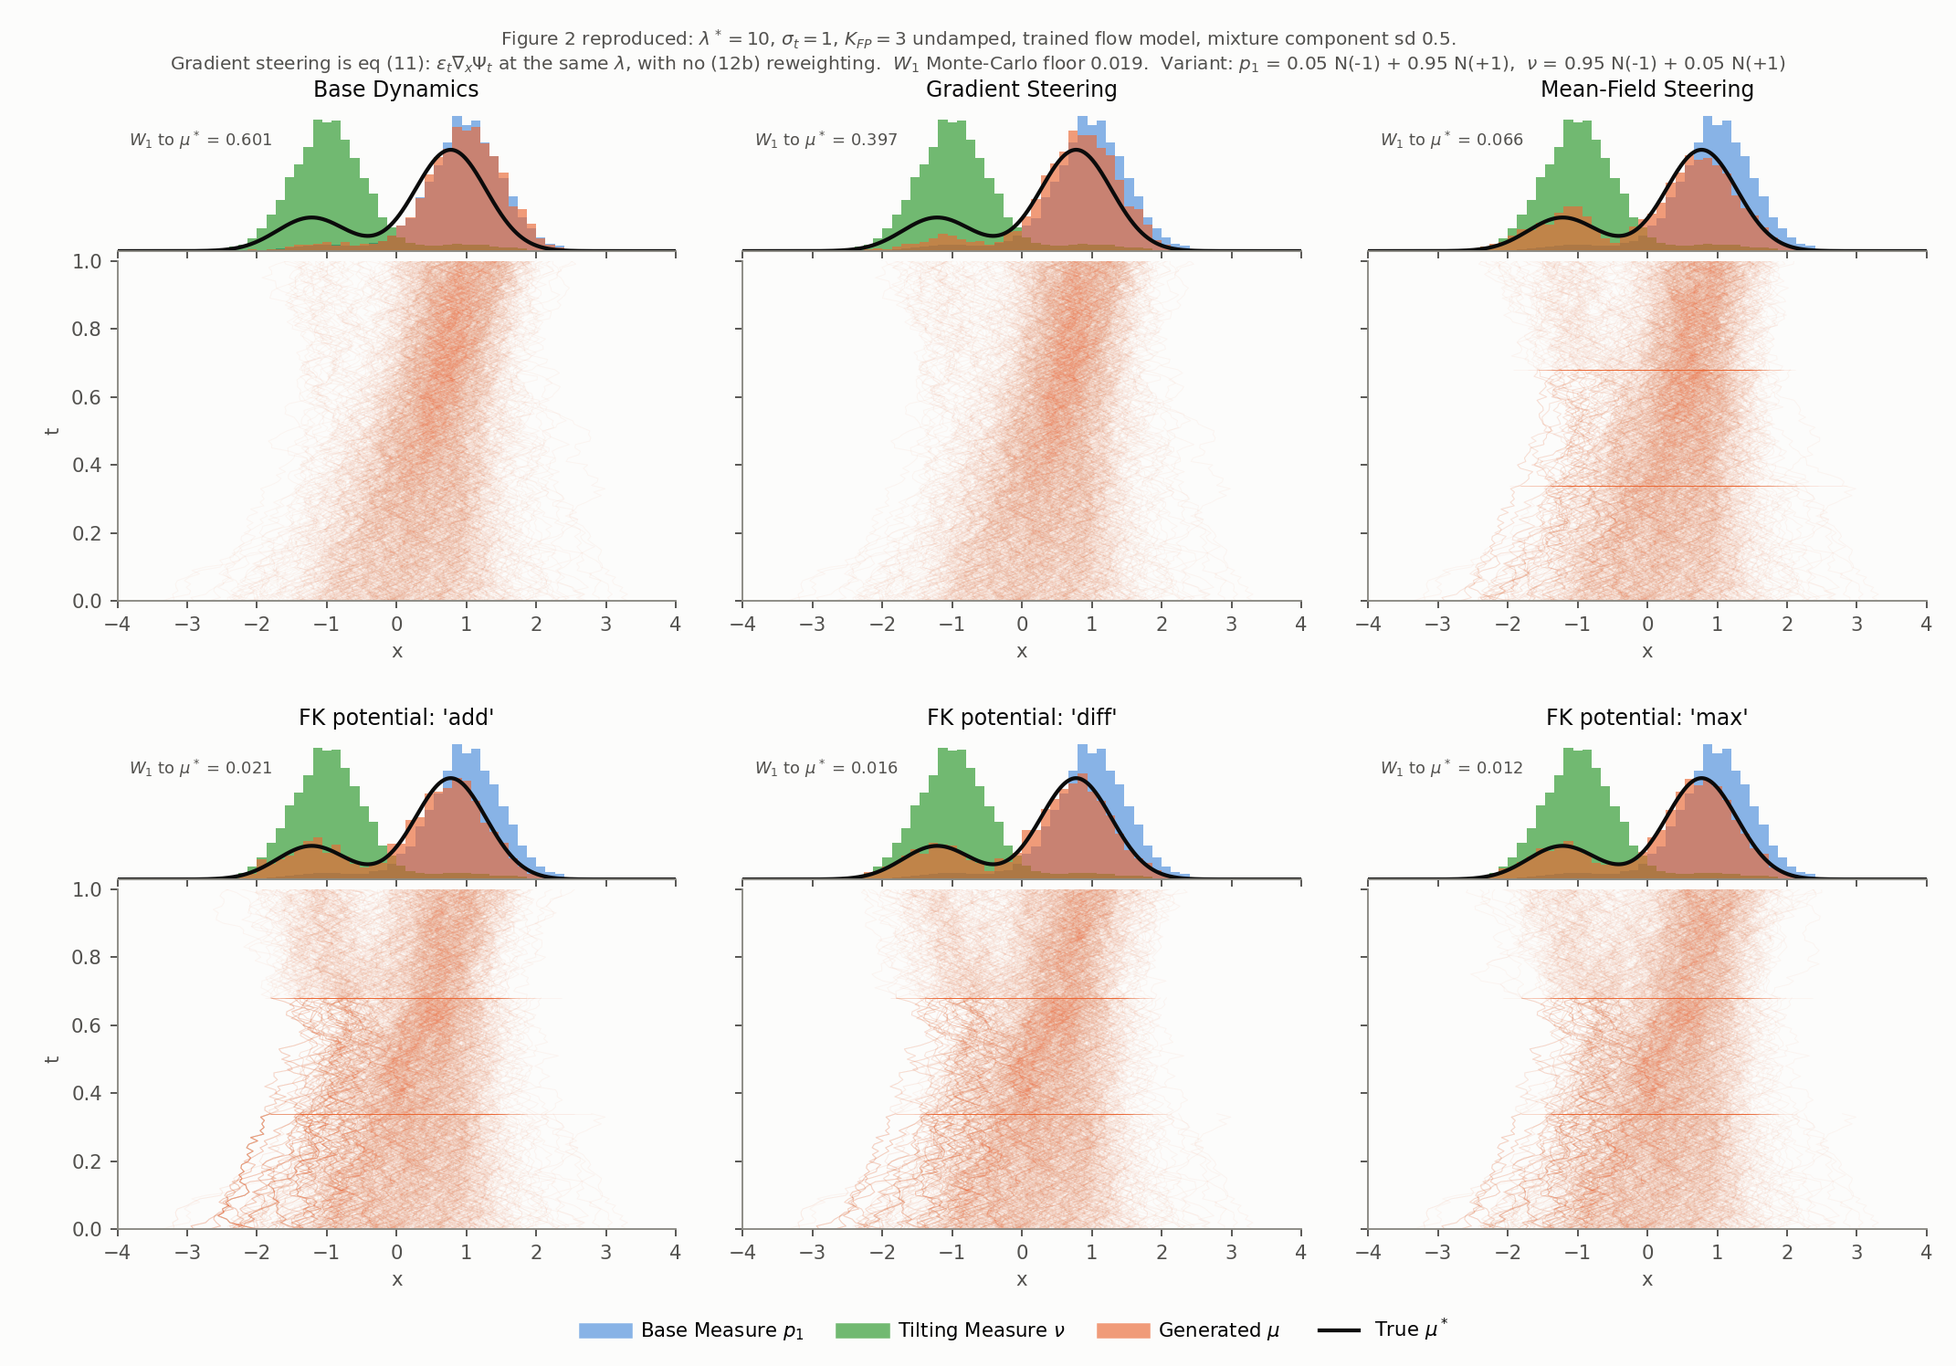
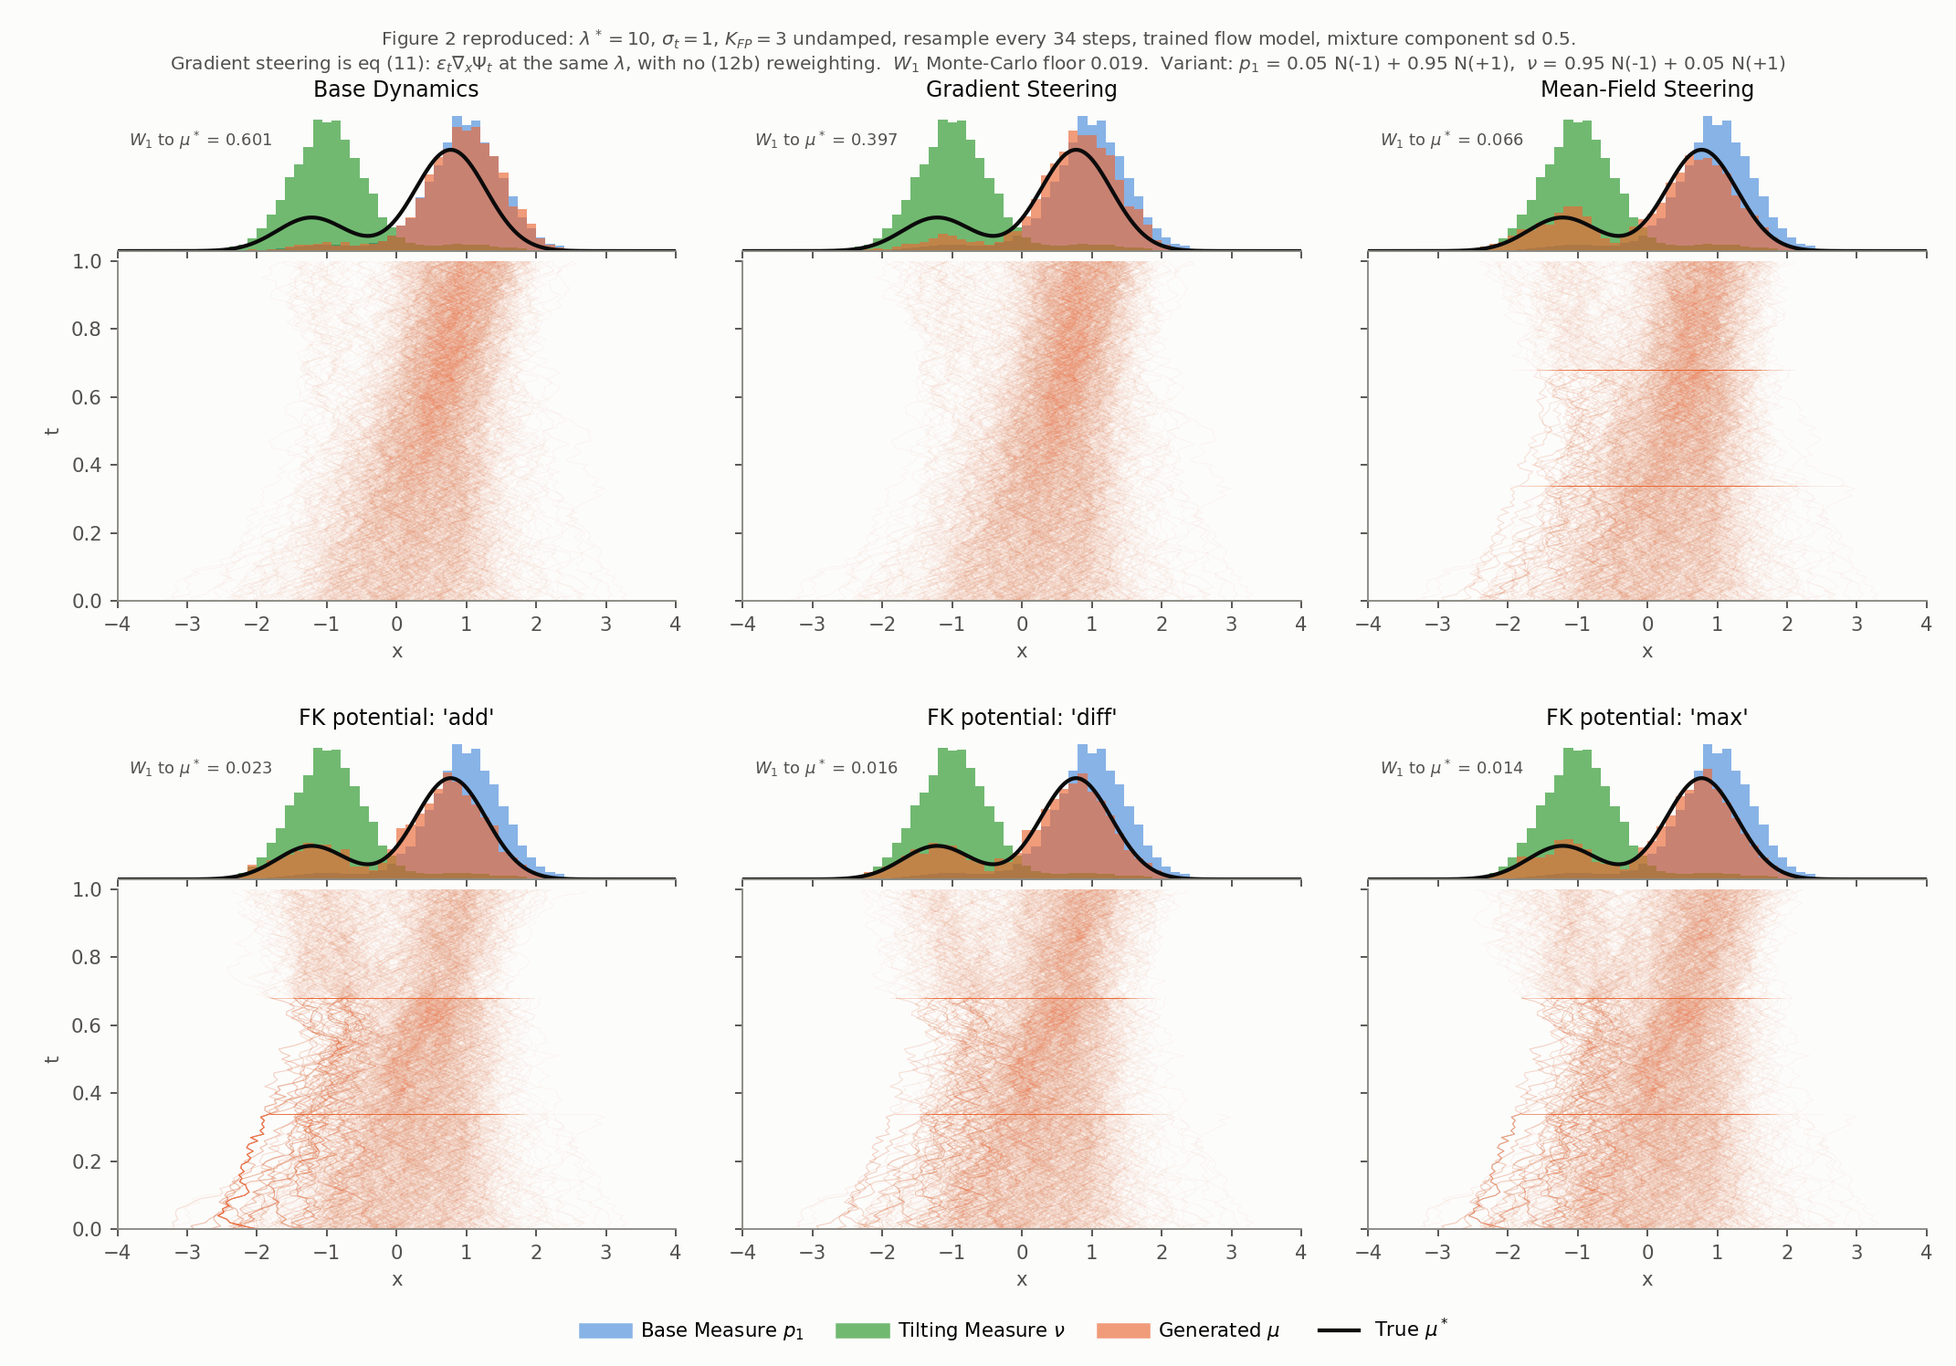
FK debug

diff --git a/src/steering/steerer.py b/src/steering/steerer.py
@@ -50,6 +50,8 @@ class Config:
     k_fp: int = 50
     damp: float = 0.5                 # k_fp=1 needs damp=1.0
     resample_every: int = 10          # 0 disables
+    resample_start: int = 0           # fkd_class.py's resampling_t_start/t_end: the window the
+    resample_end: int | None = None   # stride runs over. None = to the last step.
     increment_clip: float | None = None
     reweight: bool = True             # False -> gradient-only steering (the paper's baseline)
     steer_coeff: float | None = None  # replaces eps_t on grad_x Psi. None = eq (11)/(12a).
@@ -114,7 +116,9 @@ class Steerer:
     def checkpoint(self, k, diffusing):
         """Steps where _resample fires. FK reads the reward on exactly these."""
         cfg = self.cfg
-        return bool(cfg.resample_every and diffusing and (k + 1) % cfg.resample_every == 0)
+        end = cfg.nsteps if cfg.resample_end is None else cfg.resample_end
+        return bool(cfg.resample_every and diffusing and (k + 1) % cfg.resample_every == 0
+                    and cfg.resample_start <= k + 1 <= end)
 
     def noise_std(self, t_val, dt_t):
         g, _ = self.coeffs(t_val)
@@ -346,10 +350,11 @@ def multibatch(model, potential, cfg, n_particles, n_batches, device="cpu"):
 POTENTIALS = ("diff", "max", "add", "rt", "is")
 
 
-def log_potential(kind, lam, r, a, r_prev, logP):
-    """One FK step. Returns (a, r_prev).
+def log_potential(kind, lam, r, a, r_prev):
+    """One FK checkpoint. Returns (a, r_prev): a gains this checkpoint's log G_t in full.
 
-    `diff` is an increment; the others are cumulative and subtract `logP`, what resampling paid.
+    As Algorithm 1 and fkd_class.py:111-121: max/add resample on the running max/sum itself,
+    not its increment. `finalise` then sets lam*r(x1) - logP, which is G_0 = exp(lam r)/prod G_t.
     """
     if kind == "diff":
         return a + lam * (r - r_prev), r
@@ -363,13 +368,13 @@ def log_potential(kind, lam, r, a, r_prev, logP):
         r_prev = r
     else:
         raise ValueError(f"potential_type={kind!r}; use one of {POTENTIALS}")
-    return lam * r_prev - logP, r_prev
+    return a + lam * r_prev, r_prev
 
 
 @dataclass
 class FKConfig(Config):
     potential_type: str = "diff"      # one of POTENTIALS
-    reward_min_value: float = 0.0     # r_prev seed; only "max" is sensitive to it
+    reward_min_value: float | None = None   # r_prev seed; None = -inf for max, else 0
 
 
 class FKSteerer(Steerer):
@@ -379,14 +384,12 @@ class FKSteerer(Steerer):
     a = lam*r(x1) - logP, so at resample_every=0 they all collapse to SNIS.
     """
 
-    def check(self):
-        super().check()
-        if self.cfg.potential_type not in POTENTIALS:
-            raise ValueError(f"potential_type={self.cfg.potential_type!r}; use one of {POTENTIALS}")
-
     def begin(self, x, a):
         self._logP = torch.zeros_like(a)
-        self._r_prev = torch.full_like(a, self.cfg.reward_min_value)
+        seed = self.cfg.reward_min_value
+        if seed is None:                # the paper's Max has no floor; a 0 floor is inert on r <= 0
+            seed = float("-inf") if self.cfg.potential_type == "max" else 0.0
+        self._r_prev = torch.full_like(a, seed)
         # private stream, so turning FK on does not shift the Brownian sequence
         self._gen = torch.Generator(device=x.device).manual_seed(self.cfg.seed + 20_000_003)
 
@@ -394,11 +397,11 @@ class FKSteerer(Steerer):
         return self._gen
 
     def reindex(self, idx, a, x):
-        self._logP = (self._logP + a)[idx]      # ancestral, never reset
+        self._logP = (self._logP + a)[idx]     
         self._r_prev = self._r_prev[idx]
 
     def _cal_sample_gradient(self, x, t_val, sup, w_comb):
-        """FK weights the reward VALUE and never differentiates it."""
+        """Not used in FK: the potential is a function of the reward VALUE, not the measure's gradient."""
         return torch.zeros_like(x), torch.zeros(self.n, dtype=x.dtype, device=x.device)
 
     def _reward(self, x, t_val, w_comb):
@@ -411,16 +414,11 @@ class FKSteerer(Steerer):
         return theta_d, v_d, theta_d, torch.zeros(self.n, dtype=x.dtype, device=x.device)
 
     def _solve(self, a0, r_prev, f):
-        """Self-consistent weights: psi is read at the measure the weights themselves define.
-
-        Iteration 0 takes the FULL step, so a per-particle reward -- where `f` ignores its
-        argument -- lands on the fixed point in one pass and is bitwise unaffected by damping.
-        `r_prev` stays frozen; max/add would otherwise compound it once per iteration.
-        """
+        """Self-consistent weights"""
         cfg, a, resid, new_prev = self.cfg, a0, 0.0, r_prev
         for k in range(max(cfg.k_fp, 1)):
             r = f(normalise(a)).double()
-            cand, new_prev = log_potential(cfg.potential_type, cfg.lam, r, a0, r_prev, self._logP)
+            cand, new_prev = log_potential(cfg.potential_type, cfg.lam, r, a0, r_prev)
             cand = cand if k == 0 else (1 - cfg.damp) * a + cfg.damp * cand
             resid = float((cand - a).abs().max())
             a = cand

diff --git a/experiments/toy/toy.py b/experiments/toy/toy.py
@@ -248,6 +248,56 @@ import json
 import os
 
 
+class Visual:
+    """Records the particle genealogy for fig2's trajectory panels, through Steerer's hooks.
+
+    The drawn set is chosen at t=0: `watch` marks record_traj INITIAL particles and `root` tracks
+    which of them each slot descends from, so every branch of a watched ancestor is drawn -- the
+    survivors and the ones pruned on the way. Drawing a sample of t=1 winners instead biases the
+    t=0 cloud toward the survivors. Nothing here touches x, a or the Brownian stream.
+    """
+
+    def begin(self, x, a):
+        super().begin(x, a)
+        n = self.n
+        self._k, self._jumps, self._ghosts = 0, [], []
+        self._traj = [x.reshape(n, -1).clone()]
+        self._root = torch.arange(n, device=x.device)
+        self._watch = torch.zeros(n, dtype=torch.bool, device=x.device)
+        g = torch.Generator(device=x.device).manual_seed(int(self.cfg.seed) + 90210)
+        self._watch[torch.randperm(n, generator=g)[:self.cfg.record_traj]] = True
+
+    def reindex(self, idx, a, x):
+        super().reindex(idx, a, x)
+        n = self.n
+        if torch.equal(idx, torch.arange(n, device=idx.device)):
+            return
+        dead = torch.ones(n, dtype=torch.bool, device=idx.device)
+        dead[idx] = False                                # no new slot inherits these
+        sel = (dead & self._watch[self._root]).nonzero().flatten()
+        if sel.numel():                                  # branches that end here, kept whole
+            self._ghosts.append((self._k, torch.stack([h[sel] for h in self._traj]
+                                                      + [x.reshape(n, -1)[sel]])))
+        self._traj = [h[idx] for h in self._traj]        # histories follow their ancestors
+        self._root = self._root[idx]
+        # the lineage that died in each slot: recorded pre-permutation, then permuted by every
+        # later event so it stays aligned with the surviving line it attaches to
+        self._jumps = [(j, h[idx]) for j, h in self._jumps]
+        self._jumps.append((self._k, x.reshape(n, -1).clone()))
+
+    def on_step(self, x):
+        super().on_step(x)
+        self._traj.append(x.reshape(self.n, -1).clone())
+        self._k += 1
+
+    def extra_output(self):
+        keep = self._watch[self._root].nonzero().flatten()   # every surviving watched branch
+        return dict(super().extra_output(),
+                    traj=torch.stack(self._traj)[:, keep, :].squeeze(-1),
+                    jumps=[(j, h[keep].squeeze(-1)) for j, h in self._jumps],
+                    ghosts=[(j, h.squeeze(-1)) for j, h in self._ghosts])
+
+
 SURF, INK, INK2, MUTED = "#fcfcfb", "#0b0b0b", "#52514e", "#8a8983"
 BLUE, GREEN, ORANGE, BROWN = "#2a78d6", "#008300", "#eb6834", "#9c6644"
 
@@ -322,9 +372,9 @@ def figures(out_path, sd, tag=""):
         ah.text(.02, .86, f"$W_1$ to $\\mu^*$ = {f2[f'w1_{key}']:.3f}", transform=ah.transAxes,
                 fontsize=7.6, color=INK2, va="top")
         tr = np.array(f2[f"traj_{key}"])
-        # alpha per line falls with the count so total ink is held near the 120-line setting.
+        # alpha is set by the watched-root count, so every panel starts with the same ink at t=0.
         # Coalesced lineages overlay exactly, so a duplicated ancestor reads as a darker stroke.
-        al = .28 * 120 / tr.shape[1]
+        al = .28 * 120 / f2["record_traj"]
         at.plot(tr, ts[:, None], color=ORANGE, lw=.4, alpha=al)
         # pruned branches, drawn whole in the SAME stroke and stopping dead at the event that
         # killed them. Without these the panel shows only survivors, so its t=0 cloud would be
@@ -350,7 +400,11 @@ def figures(out_path, sd, tag=""):
                loc="lower center", ncol=4, fontsize=9, bbox_to_anchor=(.52, .004))
     fig.suptitle(
         r"Figure 2 reproduced: $\lambda^*=" + f"{f2.get('lam_star', 10):g}"
-        + r"$, $\sigma_t=1$, $K_{FP}=3$ undamped, trained flow "
+        + r"$, $\sigma_t=1$, $K_{FP}=3$ undamped, resample every "
+        + f"{f2.get('resample_every', 34)} steps"
+        + (f" within [{f2['resample_start']}, {f2['resample_end']}]"
+           if f2.get("resample_end") is not None else "")
+        + ", trained flow "
         r"model, mixture component sd " + f"{sd:g}." + "\n"
         r"Gradient steering is eq (11): $\varepsilon_t\nabla_x\Psi_t$ at the same $\lambda$, "
         r"with no (12b) reweighting.  $W_1$ Monte-Carlo floor "

diff --git a/experiments/toy/run.py b/experiments/toy/run.py
@@ -4,16 +4,35 @@ Meanfiled the 1-D toy
 import json
 import os
 import sys
+from dataclasses import dataclass
 
 import torch
 import yaml
 
 from steering.smc import normalise
 from steering.rewards import MMD
-from steering.steerer import Config, FKConfig, FKSteerer, multibatch, steer
+from steering.steerer import Config, FKConfig, FKSteerer, Steerer, multibatch, steer
 
-from .toy import (GaussianMixtureFlow, TrainedFlow, grid_mu_star, objective_paper,
+from .toy import (GaussianMixtureFlow, TrainedFlow, Visual, grid_mu_star, objective_paper,
                   sample_grid, w1_to_grid)
+
+
+@dataclass
+class VisualConfig(Config):
+    record_traj: int = 0        # watched initial particles; fig2 only
+
+
+@dataclass
+class VisualFKConfig(FKConfig):
+    record_traj: int = 0
+
+
+class VisualSteerer(Visual, Steerer):
+    """Steerer that also returns the genealogy fig2 draws."""
+
+
+class VisualFKSteerer(Visual, FKSteerer):
+    """FKSteerer that also returns the genealogy fig2 draws."""
 
 
 def out_path(cfg, part, tag=""):
@@ -108,6 +127,9 @@ def fig2(cfg):
     out = {"grid": grid.tolist(), "mu_star": q.tolist(), "sd": cfg["sd"], "h": cfg["h"], "N": n,
            "fig_tag": cfg.get("fig_tag", ""), "nu_means": cfg.get("nu_means") or cfg["means"],
            "xlim": cfg.get("xlim", 4.0), "lam_star": lam_star,
+           "resample_every": cfg["resample_fig2"], "record_traj": cfg["record_traj"],
+           "resample_start": cfg.get("resample_start", 0),
+           "resample_end": cfg.get("resample_end"),
            "nu_weights": cfg["nu_weights"], "p1_weights": cfg["p1_weights"],
            "means": cfg["means"],
            "p1": torch.softmax(base_model(cfg).log_p1(grid), 0).tolist(),
@@ -122,17 +144,18 @@ def fig2(cfg):
             "gradient": dict(lam=lam_star, reweight=False, resample_every=0),
             # same lam and the same resampling stride as mean-field, so the panels differ only
             # in how the log-weights are made: eq (12b)'s rate against a potential of the VALUE.
-            # reward_min_value stays None so `max` seeds its running max at -inf; 0.0 would make
-            # it inert against a psi that is never positive.
+            # reward_min_value stays None, so `max` seeds at -inf: the paper's Max has no floor.
             **{f"fk_{k}": dict(lam=lam_star, potential_type=k,
                                resample_every=cfg["resample_fig2"])
                for k in ("add", "diff", "max")}}
     for k, kw in runs.items():
         base = dict(nsteps=cfg["steps"], seed=cfg["fig2_seed"],
                     record_traj=cfg["record_traj"],
+                    resample_start=cfg.get("resample_start", 0),
+                    resample_end=cfg.get("resample_end"),
                     **kw)
-        o = (FKSteerer(m, pot, FKConfig(**base), n).run() if "potential_type" in kw
-             else steer(m, pot, Config(**base), n))
+        o = (VisualFKSteerer(m, pot, VisualFKConfig(**base), n).run() if "potential_type" in kw
+             else VisualSteerer(m, pot, VisualConfig(**base), n).run())
         w = o["w"] if kw.get("reweight", True) else unif
         out[f"x_{k}"], out[f"w_{k}"] = o["x"].reshape(-1).tolist(), w.reshape(-1).tolist()
         out[f"traj_{k}"], out["ts"] = o["traj"].tolist(), o["ts"].tolist()

diff --git a/compare/verify_fk.py b/compare/verify_fk.py
@@ -1,0 +1,34 @@
+"""The fixed FK potentials against fkd_class.py:111-131 and Eq. 5, on hand-made rewards."""
+import torch
+from steering.steerer import log_potential
+
+def run(kind, rs, r_star, lam=1.0, seed=None):
+    """Mimic run(): a enters each checkpoint at 0, reindex moves it into logP, then the terminal."""
+    if seed is None:
+        seed = float("-inf") if kind == "max" else 0.0
+    a, logP, r_prev, per = torch.zeros(1), torch.zeros(1), torch.full((1,), seed), []
+    for r in rs:
+        a, r_prev = log_potential(kind, lam, torch.tensor([r]), torch.zeros(1), r_prev)
+        per.append(round(float(a), 4)); logP = logP + a
+    term = lam * r_star - logP                        # finalise's rule, unchanged
+    return per, round(float(term), 4), round(float(logP + term), 4)
+
+rs, r_star = [0.1, 0.5, 0.3, 0.8], 0.6
+REF = {"max": [0.1, 0.5, 0.5, 0.8], "add": [0.1, 0.6, 0.9, 1.7],
+       "diff": [0.1, 0.4, -0.2, 0.5], "rt": [0.1, 0.5, 0.3, 0.8]}   # fkd_class.py, by hand
+print(f"r = {rs}, r* = {r_star}\n{'kind':5s} {'per-checkpoint (ours)':28s} {'reference':24s} match  total=lam*r*?")
+bad = 0
+for k in ("diff", "max", "add", "rt"):
+    per, term, tot = run(k, rs, r_star)
+    ok = per == REF[k]; eq5 = abs(tot - r_star) < 1e-9
+    bad += (not ok) + (not eq5)
+    print(f"{k:5s} {per!s:28s} {REF[k]!s:24s} {'YES' if ok else 'NO ':5s}  {tot} {'YES' if eq5 else 'NO'}")
+
+print("\nnegative rewards, as ours are (psi = -2(Sw) <= 0):")
+neg = [-0.3, -0.1, -0.2, -0.05]
+p_new, _, _ = run("max", neg, -0.15)                  # seed None -> -inf
+p_old, _, _ = run("max", neg, -0.15, seed=0.0)        # the old floor
+print(f"  max, seed -inf (new default): {p_new}")
+print(f"  max, seed 0    (old default): {p_old}   <- inert")
+bad += p_new != [-0.3, -0.1, -0.1, -0.05]
+print("\nALL CHECKS PASS" if not bad else f"\n{bad} CHECK(S) FAILED")

diff --git a/experiments/toy/_probe_visual.py b/experiments/toy/_probe_visual.py
@@ -1,0 +1,29 @@
+"""Visual must not perturb the sampler, and its t=0 cloud must be the prior."""
+import sys, torch, yaml
+sys.path[:0] = ["src", "experiments"]
+from toy.run import (trained, target_sample, VisualConfig, VisualFKConfig,
+                     VisualSteerer, VisualFKSteerer)
+from steering.rewards import MMD
+from steering.steerer import Config, FKConfig, FKSteerer, Steerer
+
+cfg = yaml.safe_load(open(sys.argv[1]))
+torch.set_default_dtype(torch.float64)
+m, y = trained(cfg, "const"), target_sample(cfg)
+pot, N, M = MMD(y, cfg["h"]), cfg["n"], cfg["record_traj"]
+kw = dict(nsteps=cfg["steps"], seed=cfg["fig2_seed"], lam=cfg["lam_star"],
+          resample_every=cfg["resample_fig2"])
+bad = 0
+for name, plain, vis in (
+        ("meanfield", lambda: Steerer(m, pot, Config(k_fp=3, damp=1.0, **kw), N).run(),
+                      lambda: VisualSteerer(m, pot, VisualConfig(k_fp=3, damp=1.0, record_traj=M, **kw), N).run()),
+        ("fk_max",    lambda: FKSteerer(m, pot, FKConfig(potential_type="max", **kw), N).run(),
+                      lambda: VisualFKSteerer(m, pot, VisualFKConfig(potential_type="max", record_traj=M, **kw), N).run())):
+    p, v = plain(), vis()
+    same = all(torch.equal(p[k], v[k]) for k in ("x", "a", "w"))
+    roots = torch.unique(torch.cat([v["traj"][0]] + [g[0] for _, g in v["ghosts"]]))
+    bad += (not same) + (len(roots) != M)
+    print(f"{name:10s} x/a/w bitwise vs plain: {same}   distinct roots drawn: {len(roots)}/{M}   "
+          f"root mean {roots.mean():+.4f} sd {roots.std():.4f}   survivors {v['traj'].shape[1]}")
+prior = torch.randn(N, 1, generator=torch.Generator().manual_seed(0))
+print(f"prior N(0,1) reference: mean ~0, sd ~1")
+print("ALL CHECKS PASS" if not bad else f"{bad} CHECK(S) FAILED")

diff --git a/tests/test_fk.py b/tests/test_fk.py
@@ -113,17 +113,20 @@ def test_resampling_moves_the_population_toward_high_reward():
 
 @pytest.mark.parametrize("kind", ["diff", "max", "add", "rt"])
 def test_fk_weights_is_the_potential_it_claims(kind):
-    """The arithmetic of one step, against the definitions written out by hand."""
+    """One checkpoint against fkd_class.py:111-121: every type adds its FULL log G_t to `a`.
+
+    The earlier version asserted `lam*g - logP`, i.e. resampled on the increment of the running
+    max/sum. That is a valid FK model but not the paper's Max and Sum.
+    """
     r = torch.tensor([0.5, -1.0, 2.0], dtype=torch.float64)
     prev = torch.tensor([1.0, -2.0, 0.0], dtype=torch.float64)
     a = torch.tensor([0.1, 0.2, 0.3], dtype=torch.float64)
-    logP = torch.tensor([0.7, 0.0, -0.4], dtype=torch.float64)
-    got, new_prev = log_potential(kind, 2.0, r, a, prev, logP)
+    got, new_prev = log_potential(kind, 2.0, r, a, prev)
     if kind == "diff":
         assert torch.allclose(got, a + 2.0 * (r - prev)) and torch.equal(new_prev, r)
     else:
         g = {"max": torch.maximum(r, prev), "add": r + prev, "rt": r}[kind]
-        assert torch.allclose(got, 2.0 * g - logP) and torch.allclose(new_prev, g)
+        assert torch.allclose(got, a + 2.0 * g) and torch.allclose(new_prev, g)
 
 
 def test_the_reward_is_never_differentiated():
